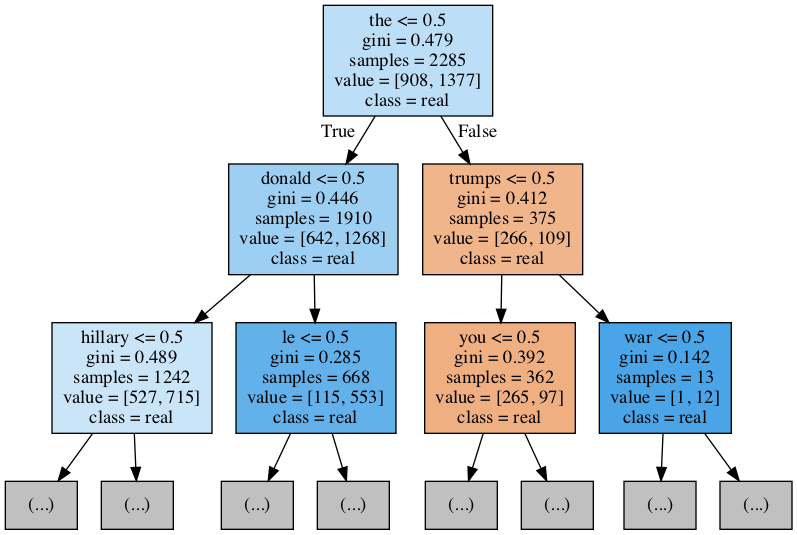
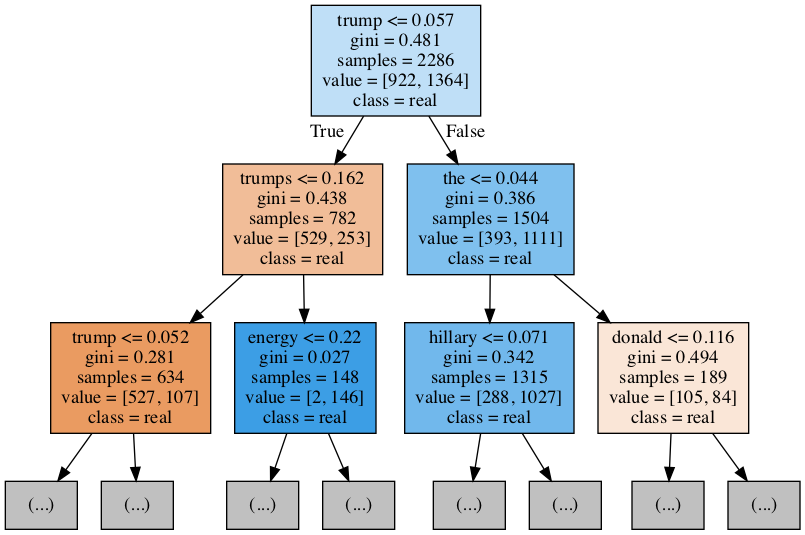
updated select_data

diff --git a/hw1_code.py b/hw1_code.py
@@ -1,5 +1,6 @@
 from typing import List
-from scipy.sparse.construct import random
+from numpy.lib.function_base import select
+from scipy.sparse.csr import csr_matrix
 from sklearn.tree import DecisionTreeClassifier, export_graphviz
 from sklearn.feature_extraction.text import TfidfVectorizer
 from sklearn.model_selection import train_test_split
@@ -28,7 +29,7 @@ def load_data(real_data: str, fake_data: str):
     x_train = vectorizer.fit_transform(x_train)
     x_val = vectorizer.transform(x_val)
 
-    return x_train, x_val, y_train, y_val
+    return x_train, x_val, y_train, y_val, vectorizer.get_feature_names()
 
 def accuracy_calculator(y_true, y_pred) -> float:
     '''
@@ -51,9 +52,7 @@ def accuracy_calculator(y_true, y_pred) -> float:
     return score/total
 
 
-def select_data() -> DecisionTreeClassifier:
-    x_train, x_val, y_train, y_val, vectorizer, real_train, fake_train = load_data()
-
+def select_data(x_train: csr_matrix, x_val: csr_matrix, y_train: List[str], y_val: List[str]) -> DecisionTreeClassifier:
     tree_to_accuracy = {}   # maps decision trees to their accuracy scores
 
     # max_depth = 3, split_criteria = information gain
@@ -62,7 +61,7 @@ def select_data() -> DecisionTreeClassifier:
     labels_predicted = t1.predict(x_val)
     accuracy = accuracy_calculator(y_val, labels_predicted)
     print("Accuracy of T1:", accuracy)
-    tree_to_accuracy[t1] = accuracy
+    tree_to_accuracy[(t1, 1, t1.criterion, t1.max_depth)] = accuracy
 
     # max_depth = 3, split criteria = gini
     t2 = DecisionTreeClassifier(criterion="gini", max_depth=3)
@@ -70,7 +69,7 @@ def select_data() -> DecisionTreeClassifier:
     labels_predicted = t2.predict(x_val)
     accuracy = accuracy_calculator(y_val, labels_predicted)
     print("Accuracy of T2:", accuracy)
-    tree_to_accuracy[t2] = accuracy
+    tree_to_accuracy[(t2, 2, t2.criterion, t2.max_depth)] = accuracy
 
     # max depth = 5, split criteria = entropy
     t3 = DecisionTreeClassifier(criterion="entropy", max_depth=5)
@@ -78,7 +77,7 @@ def select_data() -> DecisionTreeClassifier:
     labels_predicted = t3.predict(x_val)
     accuracy = accuracy_calculator(y_val, labels_predicted)
     print("Accuracy of T3:", accuracy)
-    tree_to_accuracy[t3] = accuracy
+    tree_to_accuracy[(t3, 3, t3.criterion, t3.max_depth)] = accuracy
 
     # max depth = 5, split criteria = gini
     t4 = DecisionTreeClassifier(criterion="gini", max_depth=5)
@@ -86,7 +85,7 @@ def select_data() -> DecisionTreeClassifier:
     labels_predicted = t4.predict(x_val)
     accuracy = accuracy_calculator(y_val, labels_predicted)
     print("Accuracy of T4:", accuracy)
-    tree_to_accuracy[t4] = accuracy
+    tree_to_accuracy[(t4, 4, t4.criterion, t4.max_depth)] = accuracy
 
     # max depth = 10, split criteria = entropy
     t5 = DecisionTreeClassifier(criterion="entropy", max_depth=10)
@@ -94,7 +93,7 @@ def select_data() -> DecisionTreeClassifier:
     labels_predicted = t5.predict(x_val)
     accuracy = accuracy_calculator(y_val, labels_predicted)
     print("Accuracy of T5:", accuracy)
-    tree_to_accuracy[t5] = accuracy
+    tree_to_accuracy[(t5, 5, t5.criterion, t5.max_depth)] = accuracy
 
     # max depth = 10, split criteria = gini
     t6 = DecisionTreeClassifier(criterion="gini", max_depth=10)
@@ -102,7 +101,7 @@ def select_data() -> DecisionTreeClassifier:
     labels_predicted = t6.predict(x_val)
     accuracy = accuracy_calculator(y_val, labels_predicted)
     print("Accuracy of T6:", accuracy)
-    tree_to_accuracy[t6] = accuracy
+    tree_to_accuracy[(t6, 6, t6.criterion, t6.max_depth)] = accuracy
 
     # max depth = 15, split criteria = entropy
     t7 = DecisionTreeClassifier(criterion="entropy", max_depth=15)
@@ -110,7 +109,7 @@ def select_data() -> DecisionTreeClassifier:
     labels_predicted = t7.predict(x_val)
     accuracy = accuracy_calculator(y_val, labels_predicted)
     print("Accuracy of T7:", accuracy)
-    tree_to_accuracy[t7] = accuracy
+    tree_to_accuracy[(t7, 7, t7.criterion, t7.max_depth)] = accuracy
 
     # max depth = 15, split criteria = gini
     t8 = DecisionTreeClassifier(criterion="gini", max_depth=15)
@@ -118,7 +117,7 @@ def select_data() -> DecisionTreeClassifier:
     labels_predicted = t8.predict(x_val)
     accuracy = accuracy_calculator(y_val, labels_predicted)
     print("Accuracy of T8:", accuracy)
-    tree_to_accuracy[t8] = accuracy
+    tree_to_accuracy[(t8, 8, t8.criterion, t8.max_depth)] = accuracy
 
     # max depth = 20, split criteria = entropy
     t9 = DecisionTreeClassifier(criterion="entropy", max_depth=20)
@@ -126,7 +125,7 @@ def select_data() -> DecisionTreeClassifier:
     labels_predicted = t9.predict(x_val)
     accuracy = accuracy_calculator(y_val, labels_predicted)
     print("Accuracy of T9:", accuracy)
-    tree_to_accuracy[t9] = accuracy
+    tree_to_accuracy[(t9, 9, t9.criterion, t9.max_depth)] = accuracy
 
     # max depth = 20, split criteria = gini
     t10 = DecisionTreeClassifier(criterion="gini", max_depth=20)
@@ -134,23 +133,16 @@ def select_data() -> DecisionTreeClassifier:
     labels_predicted = t10.predict(x_val)
     accuracy = accuracy_calculator(y_val, labels_predicted)
     print("Accuracy of T10:", accuracy)
-    tree_to_accuracy[t10] = accuracy
+    tree_to_accuracy[(t10, 10, t10.criterion, t10.max_depth)] = accuracy
 
     best_tree = max(tree_to_accuracy, key=tree_to_accuracy.get)
 
-    # visualize the best tree
-    dot_data = export_graphviz(
-        decision_tree=best_tree, 
-        max_depth=2, 
-        feature_names=vectorizer.get_feature_names(), 
-        class_names=y_train, 
-        filled=True
+    print("\nThe most accurate tree is Tree #{} with hyperparamters: split_criteria = {} and max_depth = {}".format(
+        best_tree[1], best_tree[2], best_tree[3]
+        )
     )
 
-    graph = graphviz.Source(dot_data, format="png")
-    graph.render("decision_tree_graphivz")
-
-    return best_tree, vectorizer, real_train, fake_train
+    return best_tree[0]
 
 # def entropy_calculator(prob1: float, prob2: float) -> float:
 #     return -1 * (prob1 * math.log2(prob1) + prob2 * math.log2(prob2))
@@ -198,5 +190,16 @@ def select_data() -> DecisionTreeClassifier:
 #     return info_gain, left, right
 
 if __name__ == "__main__":
-    x_train, x_val, y_train, y_val = load_data("clean_real.txt", "clean_fake.txt")
-    print(x_val)
+    x_train, x_val, y_train, y_val, features = load_data("clean_real.txt", "clean_fake.txt")
+    tree = select_data(x_train, x_val, y_train, y_val)
+    
+    dot_data = export_graphviz(
+        decision_tree=tree, 
+        max_depth=2, 
+        feature_names=features, 
+        class_names=y_train, 
+        filled=True
+    )
+
+    graph = graphviz.Source(dot_data, format="png")
+    graph.render("decision_tree_graphivz")
